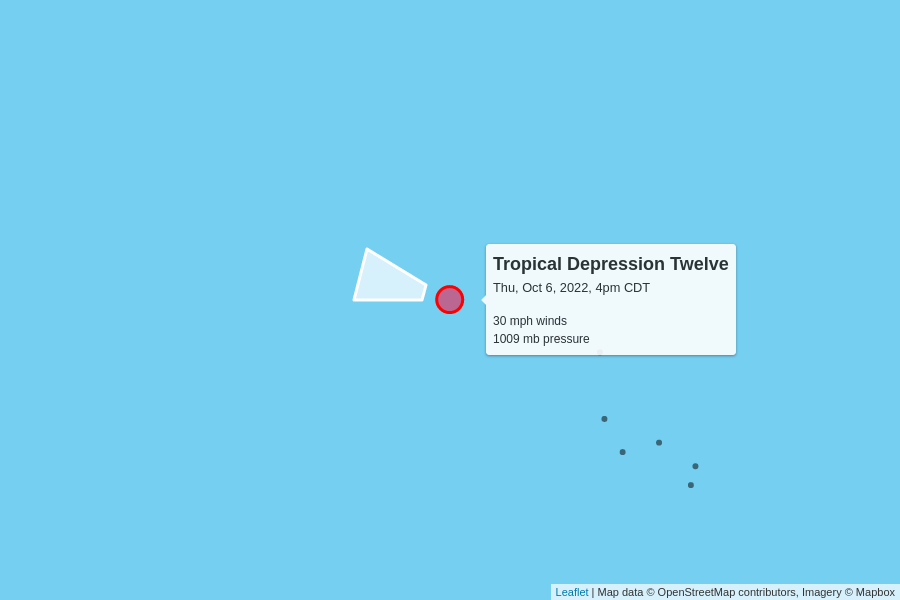
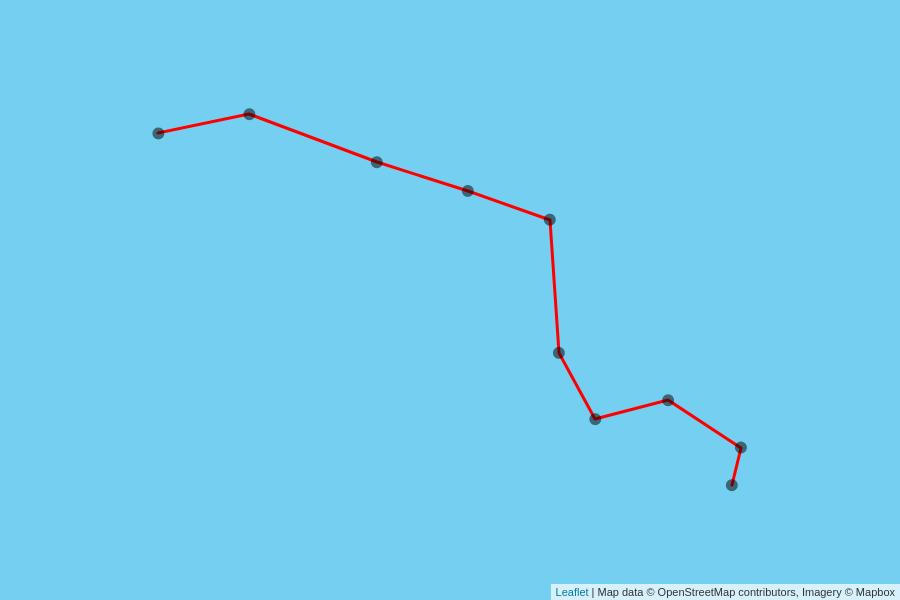
automatic update

diff --git a/docs/index.html b/docs/index.html
@@ -97,10 +97,32 @@
 
     <table>
       <tr>
+        <td colspan="6" class="storm category-0" style="cursor:pointer;" onClick="toggle('AL122022')">
+          <h2>🏁 Twelve
+          </h2>
+        </td>
+      </tr>
+      
+      <tr id="storm_AL122022" style="display:none;">
+        <td class="spacer">
+        <td colspan="5">
+          <figure>
+            <img src="AL122022.png">
+            <figcaption>
+              Map data &copy; <a href="https://www.openstreetmap.org/copyright">OpenStreetMap</a> contributors,
+              Imagery &copy; <a href="https://www.mapbox.com/">Mapbox</a> |
+              <a href="https://www.mapbox.com/map-feedback/" target="_blank">Improve this map</a>
+            </figcaption>
+          </figure>
+        </td>
+      </tr>
+      
+
+      <tr>
         <td colspan="6" class="storm category-0" >
           <h2>
-            Potential Tropical Cyclone Thirteen
-            <p class="updated">last updated <span data-time>2022-10-07T00:00:00.000Z</span></p>
+            Tropical Depression Thirteen
+            <p class="updated">last updated <span data-time>2022-10-07T03:00:00.000Z</span></p>
           </h2>
         </td>
       </tr>
@@ -116,11 +138,11 @@
       <tr>
         <td class="spacer"></td>
         <td>35 mph</td>
-        <td>1003 mb</td>
+        <td>1004 mb</td>
         <td>
-          17 mph to the west
+          15 mph to the west
           <br/>
-          <span style="display: inline-block; font-size: 1.5em; transform: rotate(270deg);">↑</span>
+          <span style="display: inline-block; font-size: 1.5em; transform: rotate(280deg);">↑</span>
         </td>
         <td><a href="https://raw.githubusercontent.com/mgwalker/atlantic-hurricanes/main/data/csv/AL132022.csv">AL132022.csv</a></td>
         <td><a href="https://www.nhc.noaa.gov/archive/2022/THIRTEEN.shtml?">NHC advisories</a></td>
@@ -130,50 +152,6 @@
         <td colspan="5">
           <figure>
             <img src="AL132022.png">
-            <figcaption>
-              Map data &copy; <a href="https://www.openstreetmap.org/copyright">OpenStreetMap</a> contributors,
-              Imagery &copy; <a href="https://www.mapbox.com/">Mapbox</a> |
-              <a href="https://www.mapbox.com/map-feedback/" target="_blank">Improve this map</a>
-            </figcaption>
-          </figure>
-        </td>
-      </tr>
-      
-
-      <tr>
-        <td colspan="6" class="storm category-0" >
-          <h2>
-            Tropical Depression Twelve
-            <p class="updated">last updated <span data-time>2022-10-06T21:00:00.000Z</span></p>
-          </h2>
-        </td>
-      </tr>
-      
-      <tr>
-        <th class="spacer"></th>
-        <th>wind speed</th>
-        <th>central pressure</th>
-        <th>movement</th>
-        <th>data (CSV)</th>
-        <th>National Hurricane Center</th>
-      </tr>
-      <tr>
-        <td class="spacer"></td>
-        <td>30 mph</td>
-        <td>1009 mb</td>
-        <td>
-          15 mph to the west-northwest
-          <br/>
-          <span style="display: inline-block; font-size: 1.5em; transform: rotate(285deg);">↑</span>
-        </td>
-        <td><a href="https://raw.githubusercontent.com/mgwalker/atlantic-hurricanes/main/data/csv/AL122022.csv">AL122022.csv</a></td>
-        <td><a href="https://www.nhc.noaa.gov/archive/2022/TWELVE.shtml?">NHC advisories</a></td>
-      </tr>
-      <tr id="storm_AL122022" >
-        <td class="spacer">
-        <td colspan="5">
-          <figure>
-            <img src="AL122022.png">
             <figcaption>
               Map data &copy; <a href="https://www.openstreetmap.org/copyright">OpenStreetMap</a> contributors,
               Imagery &copy; <a href="https://www.mapbox.com/">Mapbox</a> |
